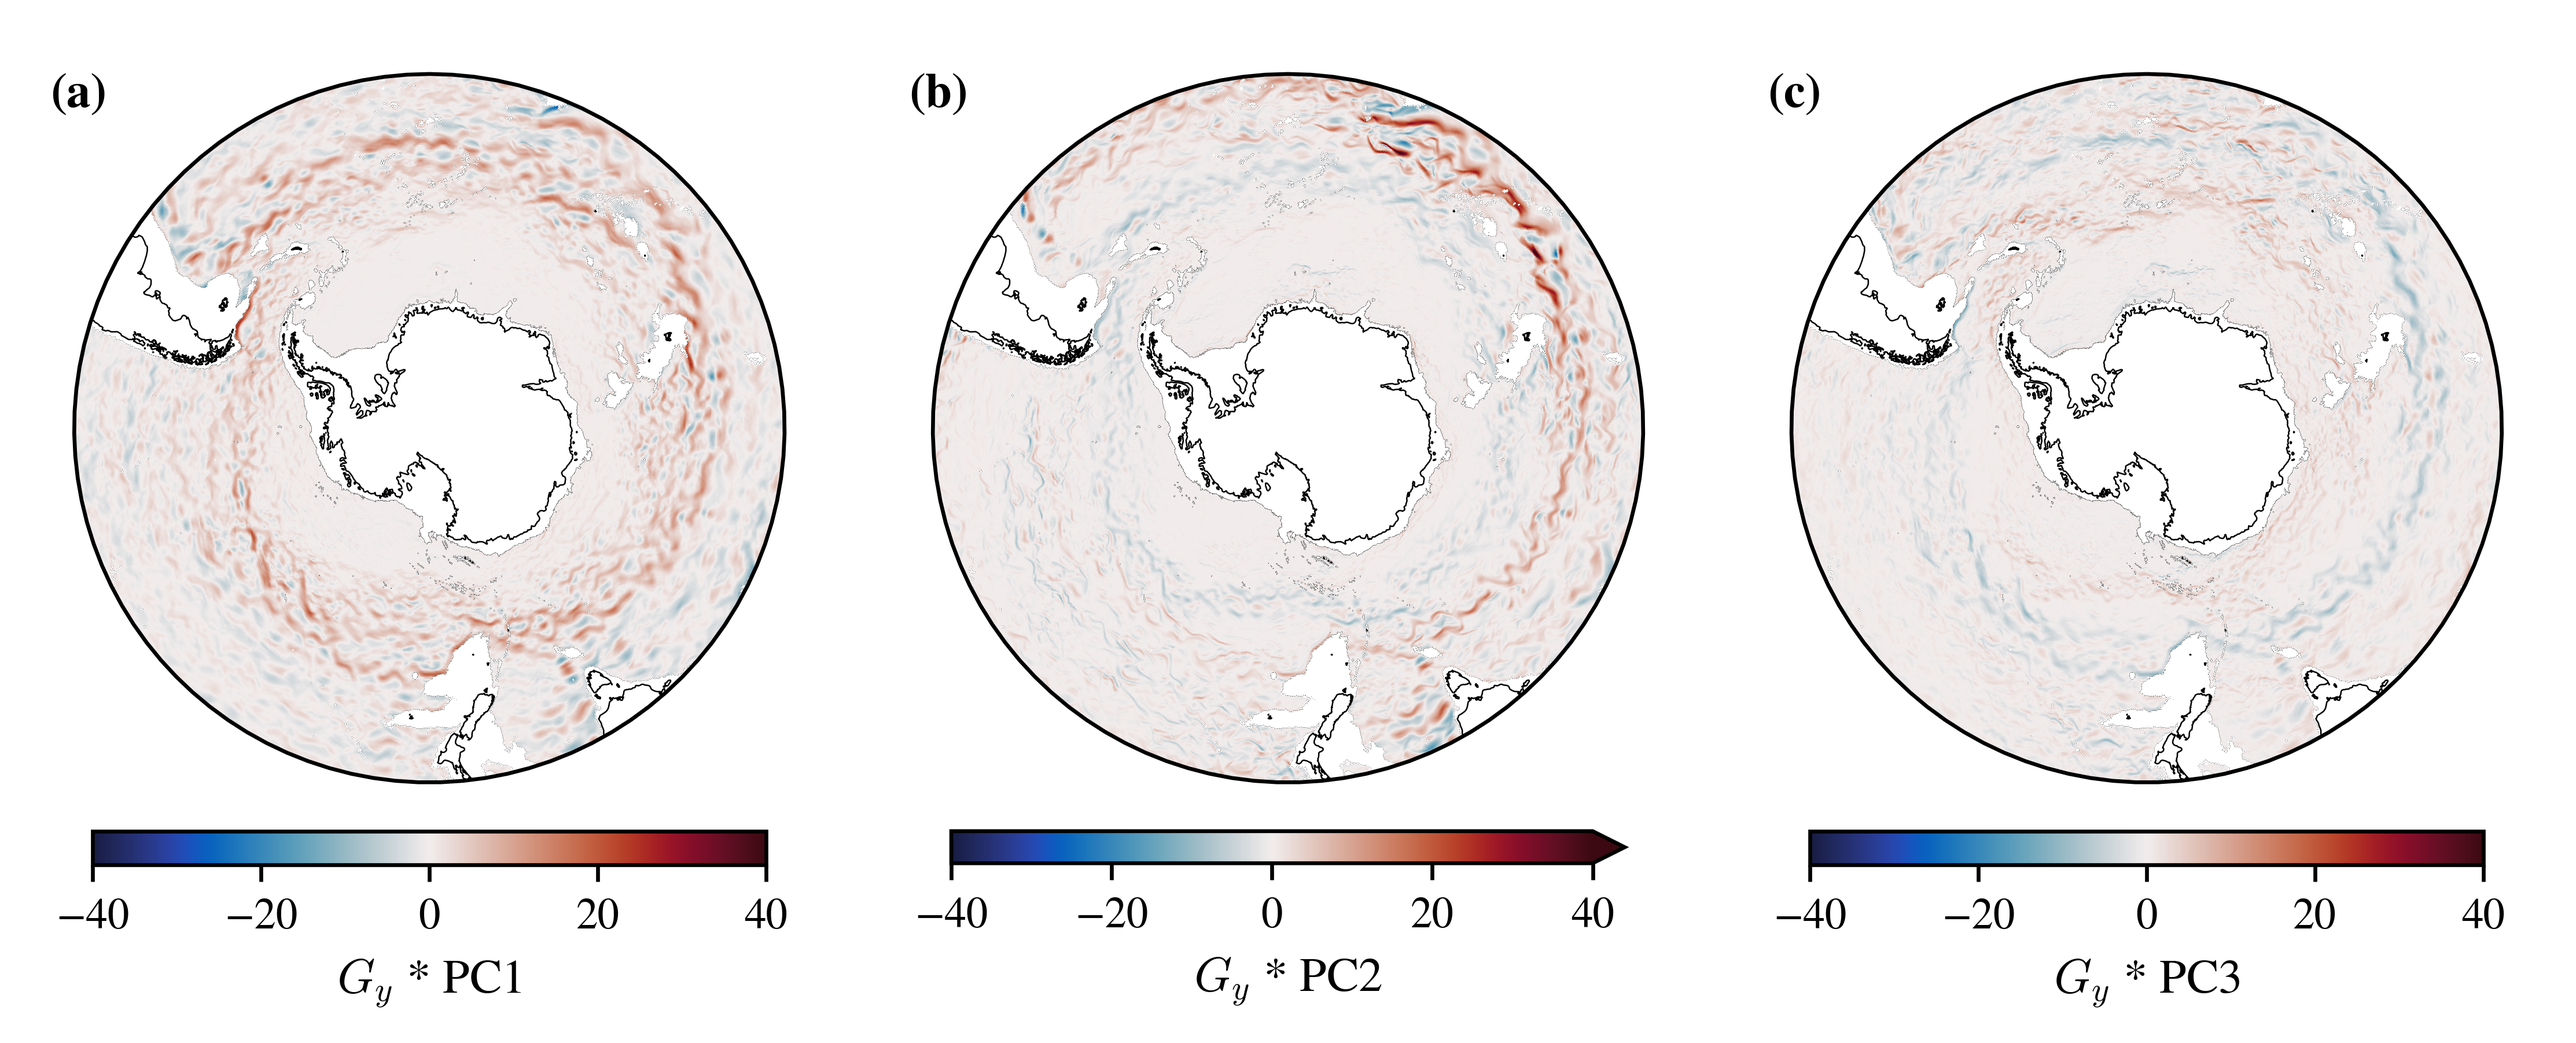
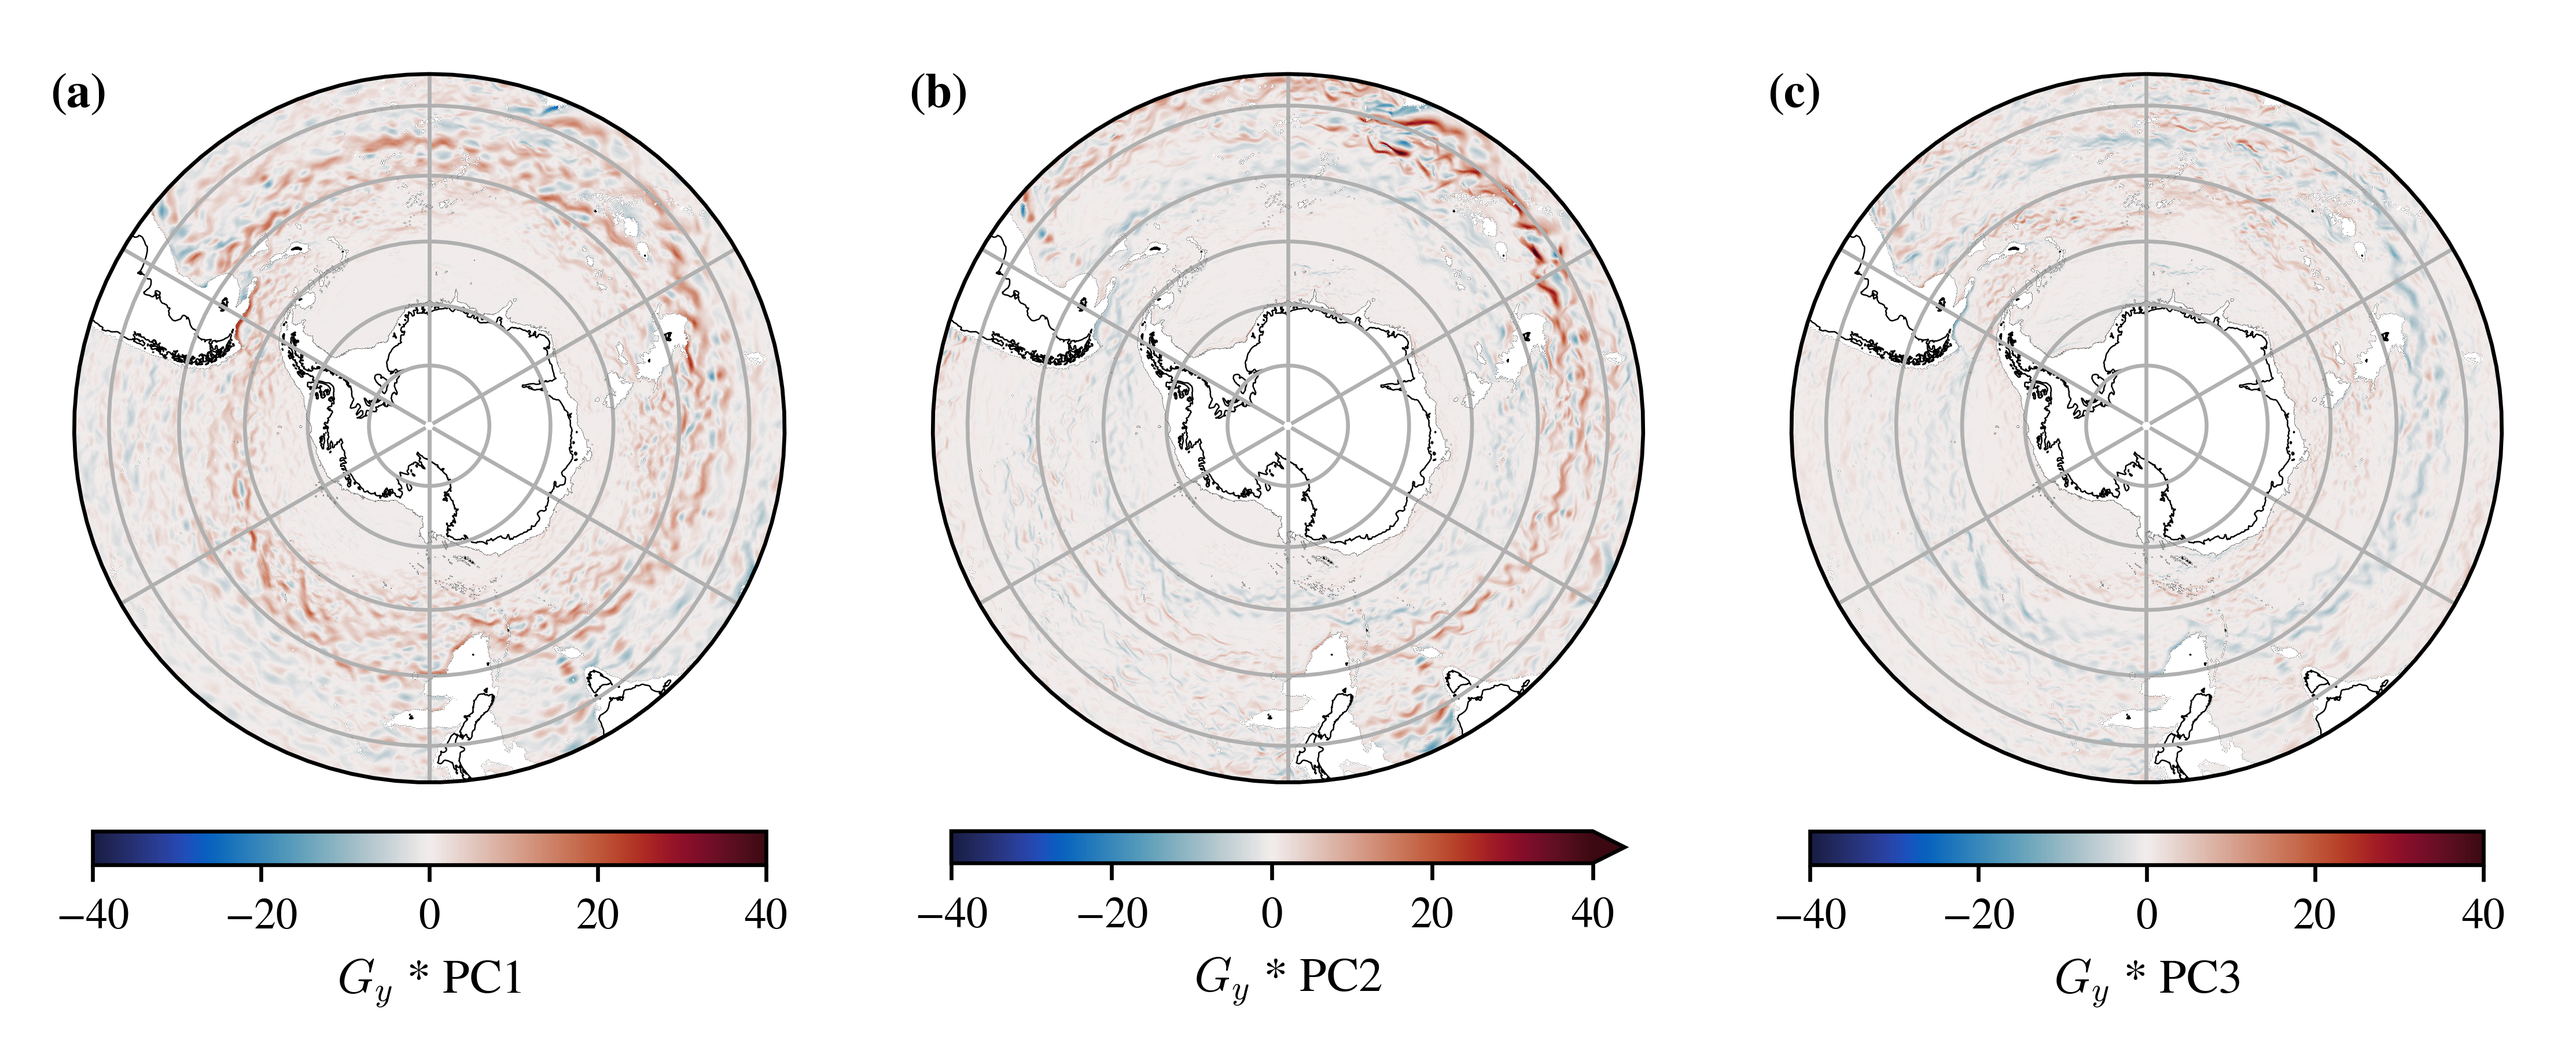
ext: adding ko to i-metric dual plot

diff --git a/main.py b/main.py
@@ -17,41 +17,3 @@ mov.move()
 # animate_imetric(video_path="gifs/boundaries-k5.gif", k_clusters=5)
 # animate_imetric(video_path="gifs/boundaries-k5.mp4", k_clusters=5)
 # animate_imetric(video_path="gifs/boundaries-k10.gif", k_clusters=10)
-
-# pylint: disable=pointless-string-statement
-"""
-# import hydra
-# from src import constants
-# from src.configs import config
-# import os
-# import src.plot_utils.cluster_profiles as cp
-# import src.models.train_i_metric as tim
-# import src.constants as cst
-# import xarray as xr
-
-temp_name = os.path.join(cst.DATA_PATH, "run_" + cst.RUN_NAME + "temp.nc")
-profiles_name = os.path.join(cst.DATA_PATH, "run_" + cst.RUN_NAME + "profiles_temp.nc")
-m, ds = tim.train_on_interpolated_year(
-    time_i=42,
-    K=5,
-    maxvar=3,
-    min_depth=300,
-    max_depth=2000,
-    separate_pca=False,
-    remove_init_var=False,
-)
-ds.to_netcdf(path=temp_name)
-ds = xr.open_dataset(temp_name)
-profile_ds = cp.make_cluster_profiles(ds)
-profile_ds.to_netcdf(path=profiles_name)
-profile_ds = xr.open_dataset(profiles_name)
-print(profile_ds)
-cp.plot_profiles_dataset(profile_ds)
-s3d.plot_fig2_mult(
-    m._classifier.weights_, m._classifier.means_, m._classifier.covariances_, ds
-)
-plt.show()
-plt.clf()
-# cp.profile_plot_cluster_comparison(ds)
-# print(ds)
-"""

diff --git a/src/plot_utils/xarray_panels.py b/src/plot_utils/xarray_panels.py
@@ -7,6 +7,7 @@ import cartopy.crs as ccrs
 import src.plot_utils.map as mp
 import src.plot_utils.gen_panels as gp
 import src.plot_utils.colors as col
+import src.plot_utils.ko_plot as ko
 import src.time_wrapper as twr
 import src.constants as cst
 
@@ -228,6 +229,14 @@ def plot_several_pair_i_metrics(da_list: Sequence[xr.DataArray]) -> None:
         plt.suptitle("")
         plt.title("")
         ax1.set_title("")
+        ko.draw_fronts_kim(ax1)
         primary_axes_list.append(ax1)
 
     gp.label_subplots(primary_axes_list)
+    ax1.legend(
+        bbox_to_anchor=(0.0, -0.1, 0, 0),
+        loc="lower right",
+        ncol=2,
+        mode="expand",
+        borderaxespad=0.0,
+    )

diff --git a/src/plot/i_map.py b/src/plot/i_map.py
@@ -150,7 +150,6 @@ def map_imetric(da_i: xr.DataArray, da: xr.DataArray) -> None:
             mp.southern_ocean_axes_setup(ax1, fig)
             ax1.set_title("")
             ko.draw_fronts_kim(ax1)
-            ax1.legend(loc="lower right")
             ax1.legend(
                 bbox_to_anchor=(0.0, -0.1, 0, 0),
                 loc="lower right",

diff --git a/src/plot/profiles.py b/src/plot/profiles.py
@@ -14,7 +14,6 @@ def make_profiles(ds: xr.Dataset) -> xr.Dataset:
     """
     Make cluster profiles.
 
-    TODO: Add sanity check to this step. Look at BSOSE output,
     TODO: and averages the profiles,
     TODO: using zonal mean including all the longitudinal points, in salinity.
 

diff --git a/src/plot_utils/map.py b/src/plot_utils/map.py
@@ -43,6 +43,7 @@ def southern_ocean_axes_setup(
 
     plot_boundary()
     ax.coastlines(resolution="50m", linewidth=0.3)
+    ax.gridlines()
 
     @jit(cache=True)  # significant performance enhancement.
     def find_isobath(
